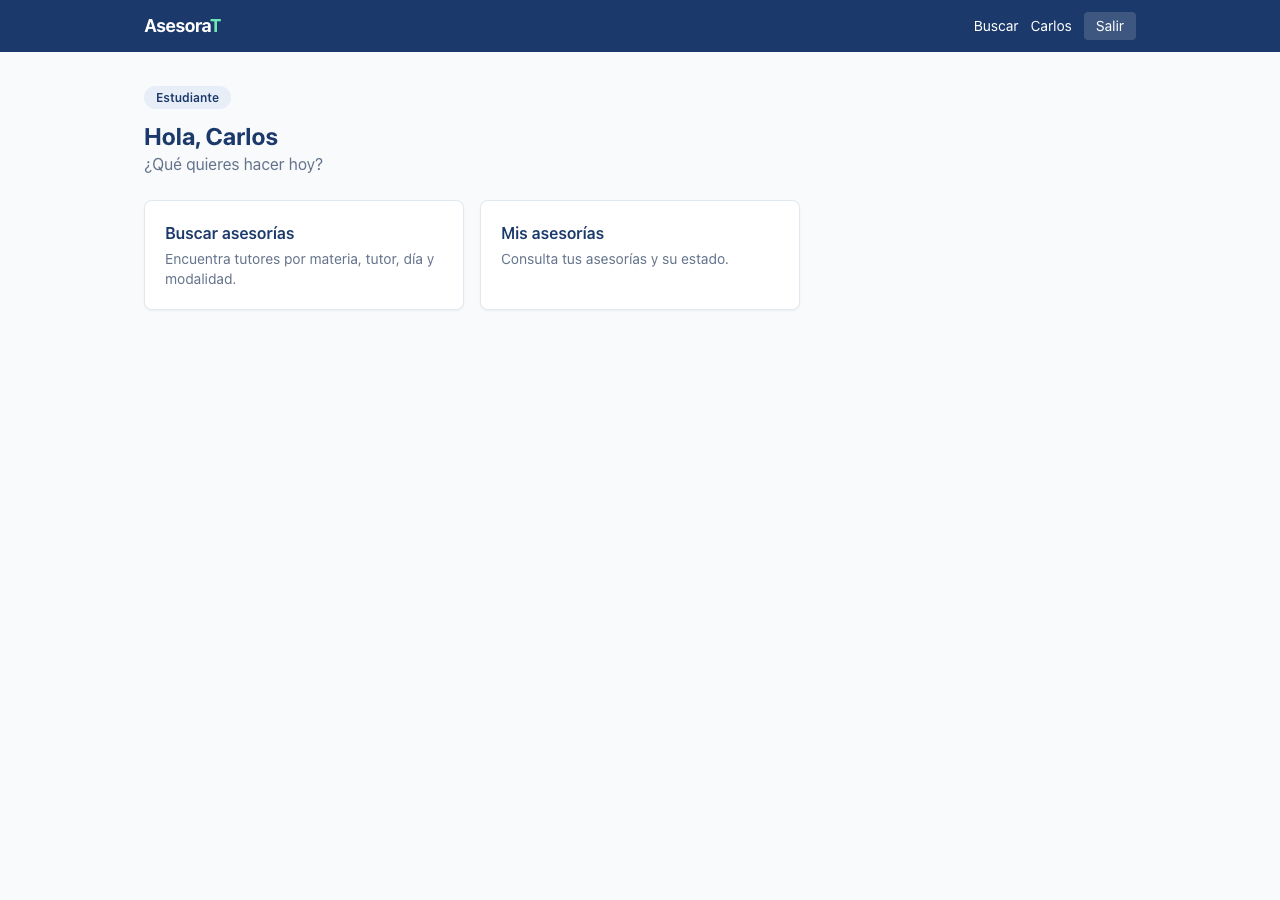
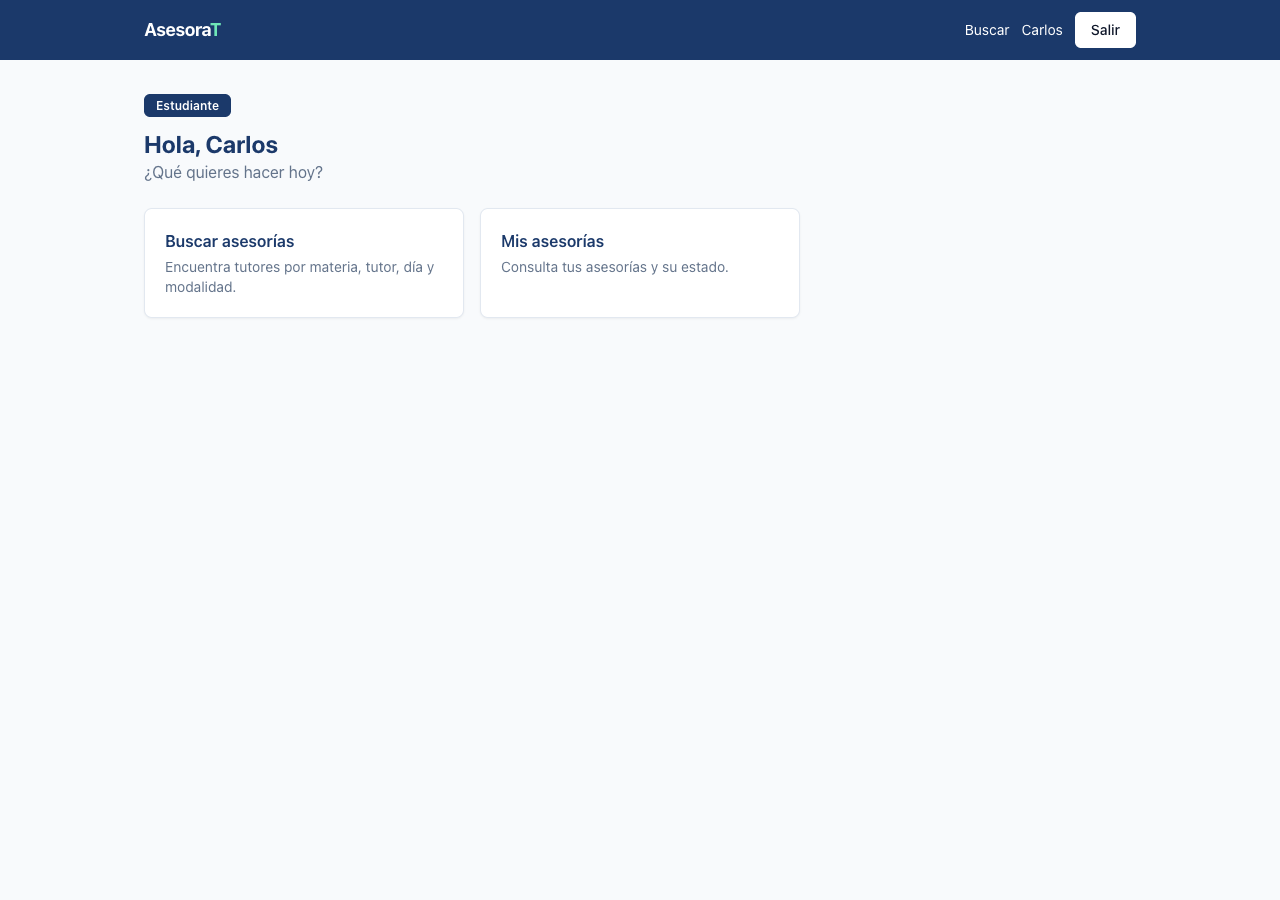
docs: pruebas P-22 a P-24, seguimiento y capturas con el detalle y el resultado (CC-005)

Changed region(s): [[0.0, 0.0, 1.0, 0.2178], [0.125, 0.2489, 0.3438, 0.3422], [0.375, 0.2489, 0.5625, 0.3111]]

diff --git a/docs/seguimiento.md b/docs/seguimiento.md
@@ -6,10 +6,10 @@ Corte final: 26 de noviembre de 2026 (entrega de la versión 1.0.0). Responsable
 
 | Concepto | Resultado |
 |---|---|
-| Actividades terminadas | 22 de 22 (100 %) |
+| Actividades terminadas | 23 de 23 (100 %) |
 | Historias de la versión 1.0.0 | 9 de 9 terminadas (40 de 40 puntos) |
 | Requerimientos funcionales de la versión 1.0.0 | 9 de 9 implementados (RF-01 a RF-07, RF-09 y RF-11) |
-| Casos de prueba aprobados | 37 de 37 (16 automatizados y 21 de punta a punta) |
+| Casos de prueba aprobados | 40 de 40 (16 automatizados y 24 de punta a punta) |
 | Defectos encontrados en la etapa final | 2, corregidos el mismo día |
 | Actividades pendientes | Ninguna de la versión 1.0.0. Las mejoras de la versión 1.1 se listan al final. |
 
@@ -33,19 +33,20 @@ Corte final: 26 de noviembre de 2026 (entrega de la versión 1.0.0). Responsable
 | A14 | HU-05 Agendar sin empalmes | 16 a 20 nov | 25 nov | Terminada | 100 % | La restricción única también contaba las asesorías canceladas y el horario nunca se liberaba. | Índice único parcial que ignora las canceladas (CC-004). |
 | A15 | HU-06 Confirmar o rechazar | 16 a 20 nov | 25 nov | Terminada | 100 % | Confirmar o rechazar no cambiaba el estado (defecto D-01). | Corregido el mismo día (commit `fb7e225`). |
 | A16 | HU-07 Cancelar | 23 a 27 nov | 25 nov | Terminada | 100 % | Ninguno | - |
-| A17 | HU-09 Historial | 23 a 27 nov | 25 nov | Terminada | 100 % | Ninguna historia marcaba las asesorías como completadas y el reporte no tenía datos. | El tutor marca como completada una asesoría confirmada que ya ocurrió. |
+| A17 | HU-09 Historial | 23 a 27 nov | 25 nov | Terminada | 100 % | Ninguna historia marcaba las asesorías como completadas y el reporte no tenía datos. | El tutor registra el resultado (Aprobada o No aprobada) de una asesoría confirmada que ya ocurrió y queda como completada (CC-005). |
 | A18 | HU-11 Reporte de horas | 23 a 27 nov | 25 nov | Terminada | 100 % | Ninguno | - |
 | A19 | Pruebas y correcciones | 30 nov a 2 dic | 25 nov | Terminada | 100 % | 2 defectos (D-01 y D-02). | Corregidos y verificados con una nueva ejecución de todas las pruebas. |
 | A20 | Despliegue en Vercel y Neon | 2 a 3 dic | 26 nov | Terminada | 100 % | - | - |
 | A21 | Manual de usuario y evidencias | 3 a 4 dic | 25 a 26 nov | Terminada | 100 % | - | - |
 | A22 | Presentación y entrega de la versión 1.0.0 | 4 dic | 26 nov | Terminada | 100 % | La consigna fija la entrega el 26 nov, antes del 4 dic planeado. | Sprint 6 reducido a 2 días (CC-004). |
+| A23 | Detalle de la asesoría, resultado y colores sólidos (CC-005) | No planeada | 25 nov | Terminada | 100 % | En la revisión de la interfaz se pidió ver el detalle de cada asesoría y su resultado, y botones más claros. | CC-005; 3 pruebas nuevas (P-22 a P-24). |
 
 ## Indicadores
 
 | Métrica | Meta | Resultado final | Lectura |
 |---|---|---|---|
 | M1 Requerimientos funcionales implementados (versión 1.0.0) | 100 % | 9 de 9 (100 %) | Cumple |
-| M2 Casos de prueba aprobados | ≥ 90 % | 37 de 37 (100 %) después de las correcciones | Cumple |
+| M2 Casos de prueba aprobados | ≥ 90 % | 40 de 40 (100 %) después de las correcciones | Cumple |
 | M3 Defectos críticos abiertos al entregar | 0 | 0 | Cumple |
 | M8 Historias completadas por sprint | ≥ 80 % | Sprints 3 a 5: 7 de 7 historias (100 %) | Cumple |
 | M9 Desviación del cronograma | ≤ 10 % | Los Sprints 3 y 4 no avanzaron en sus fechas; la versión 1.0.0 se entregó el 26 nov, 8 días antes de la línea base del 4 dic | Se controló con CC-004 |
@@ -73,6 +74,7 @@ Corte final: 26 de noviembre de 2026 (entrega de la versión 1.0.0). Responsable
 | CC-002 | 6 nov | PostgreSQL local en desarrollo y Neon en despliegue. | 0.2.0 |
 | CC-003 | 6 nov | Sprints de 1 semana; HU-08 y HU-10 a la versión 1.1. | 0.2.1 |
 | CC-004 | 25 nov | Cronograma ajustado a la entrega del 26 nov; las canceladas ya no ocupan el horario. | 1.0.0 |
+| CC-005 | 25 nov | Detalle de cada asesoría, resultado Aprobada o No aprobada y colores sólidos en la interfaz. | 1.0.0 |
 
 Detalle completo en [bitacora-cambios.md](bitacora-cambios.md).
 
@@ -83,7 +85,7 @@ Detalle completo en [bitacora-cambios.md](bitacora-cambios.md).
 | 0.1.0 | 11 oct 2026 | Estructura del proyecto, modelo de datos, pantallas iniciales y documentación. |
 | 0.2.0 | 6 nov 2026 | Base de datos, registro e inicio de sesión, panel por rol, materias del tutor y búsqueda desde la BD. |
 | 0.2.1 | 6 nov 2026 | Cronograma reprogramado (CC-003). |
-| 1.0.0 | 26 nov 2026 | Disponibilidad, agendar, confirmar, cancelar, historial y reporte de horas. Versión final del semestre. |
+| 1.0.0 | 26 nov 2026 | Disponibilidad, agendar, confirmar, cancelar, historial con detalle y resultado, y reporte de horas. Versión final del semestre. |
 
 Detalle en [CHANGELOG.md](../CHANGELOG.md). Cada versión tiene su etiqueta en GitHub (`v0.1.0`, `v0.2.0`, `v0.2.1` y `v1.0.0`).
 
@@ -91,7 +93,7 @@ Detalle en [CHANGELOG.md](../CHANGELOG.md). Cada versión tiene su etiqueta en G
 
 - **Repositorio:** https://github.com/BrisaAguayo/AsesoraT
 - **Commits:** historial con *Conventional Commits* (`feat:`, `fix:`, `docs:`, `chore:`), uno por cambio.
-- **Ramas:** una rama por historia (`feature/HU-03-disponibilidad` a `feature/HU-11-reporte`), una por defecto (`fix/HU-06-confirmar-solicitud`, `fix/HU-03-horas-en-celular`), una para el despliegue (`chore/despliegue-vercel`) y una de documentación (`docs/entrega-final`), integradas a `main` con un merge por rama (commits "Merge: ...").
+- **Ramas:** una rama por historia (`feature/HU-03-disponibilidad` a `feature/HU-11-reporte`), una por defecto (`fix/HU-06-confirmar-solicitud`, `fix/HU-03-horas-en-celular`), una para el despliegue (`chore/despliegue-vercel`), dos de la revisión de la interfaz (`feature/estilos-solidos`, `feature/HU-09-detalle-resultado`) y una de documentación (`docs/entrega-final`), integradas a `main` con un merge por rama (commits "Merge: ...").
 - **Tablero Kanban:** GitHub Projects con las columnas Por hacer, En progreso, En revisión y Terminado.
 - **Etiquetas de versión:** `v0.1.0`, `v0.2.0`, `v0.2.1` y `v1.0.0`.
 

diff --git a/docs/bitacora-pruebas.md b/docs/bitacora-pruebas.md
@@ -7,7 +7,7 @@
 ## Cómo se probó
 
 1. **Pruebas automatizadas** de las reglas de negocio con `npm test` (16 casos, CP-01 a CP-16).
-2. **Pruebas de punta a punta** en el navegador con las cuentas de ejemplo de los 3 roles (21 casos, P-01 a P-21). Cada prueba sigue los pasos que haría un usuario y revisa lo que aparece en pantalla y en la base de datos.
+2. **Pruebas de punta a punta** en el navegador con las cuentas de ejemplo de los 3 roles (24 casos, P-01 a P-24). Cada prueba sigue los pasos que haría un usuario y revisa lo que aparece en pantalla y en la base de datos.
 3. **Revisión de código** antes de integrar cada rama: `npm run build`, `npm run typecheck` y `npm run lint` sin errores.
 4. Si una prueba falla, se registra el defecto, se corrige en una rama `fix/` y se vuelven a correr **todas** las pruebas.
 
@@ -31,11 +31,14 @@
 | P-14 | El estudiante ve el nuevo estado (HU-06, HU-09) | 25 nov 2026 | Brisa Aguayo | En Mis asesorías aparecen Próximas e Historial con los estados Confirmada, Cancelada y Completada. | Se muestran ambas secciones con los 4 estados. | Ninguno | Alta | No aplica | No aplica |
 | P-15 | Cancelar asesoría (HU-07) | 25 nov 2026 | Brisa Aguayo | Al cancelar, queda registrada como cancelada y el horario vuelve a estar disponible. | Mensaje "Asesoría cancelada. El horario quedó libre." y la fecha vuelve a ofrecerse al agendar. | Ninguno | Alta | No aplica | No aplica |
 | P-16 | Cancelar solo hasta 2 horas antes (HU-07, RF-07) | 25 nov 2026 | Brisa Aguayo | Las asesorías pasadas o a menos de 2 horas no muestran "Cancelar". | El historial no muestra el botón; la regla también pasa la prueba automatizada CP-12. | Ninguno | Alta | No aplica | No aplica |
-| P-17 | Marcar como completada (HU-09) | 25 nov 2026 | Brisa Aguayo | El tutor marca como completada una asesoría confirmada que ya ocurrió. | Mensaje "Asesoría marcada como completada." | Ninguno | Media | No aplica | No aplica |
+| P-17 | Registrar el resultado (HU-09, CC-005) | 25 nov 2026 | Brisa Aguayo | Desde el detalle, el tutor registra Aprobada o No aprobada de una asesoría confirmada que ya ocurrió y queda como completada. | Mensaje "Resultado registrado. La asesoría quedó como completada." con el estado Completada y el resultado ✓ Aprobada. | Ninguno | Media | No aplica | No aplica |
 | P-18 | Reporte de horas por periodo (HU-11) | 25 nov 2026 | Brisa Aguayo | Del 1 al 30 nov se ven las asesorías completadas y horas por tutor con el total; en octubre no hay datos. | Andrea López 3 y 3 h, Diego Ramírez 1 y 1 h, Mariana Soto 1 y 1 h, total 5 y 5 h. Octubre: "No hay asesorías completadas en este periodo." | Ninguno | Alta | No aplica | No aplica |
 | P-19 | Exportar a CSV (HU-11) | 25 nov 2026 | Brisa Aguayo | Se descarga un archivo CSV con el periodo, una fila por tutor y el total. | Archivo `reporte-horas-2026-11-01-a-2026-11-30.csv` con los mismos datos de la pantalla. | Ninguno | Media | No aplica | No aplica |
 | P-20 | Acceso por rol y privacidad (RNF-04, RNF-07) | 25 nov 2026 | Brisa Aguayo | El estudiante no entra a solicitudes ni al reporte; el tutor no entra al reporte ni descarga el CSV; ningún usuario ve números de control de otros. | Todas las rutas protegidas mandan al inicio de sesión; ningún número de control aparece en las páginas revisadas. | Ninguno | Alta | No aplica | No aplica |
 | P-21 | Diseño en celular (RNF-03) | 25 nov 2026 | Brisa Aguayo | A 360 px las pantallas de los 3 roles no tienen desplazamiento horizontal. | Panel, búsqueda, agendar, mis asesorías, disponibilidad, solicitudes y reporte miden 360 px o menos. | Ninguno | Media | No aplica | No aplica |
+| P-22 | Detalle y resultado para el estudiante (HU-09, CC-005) | 25 nov 2026 | Brisa Aguayo | Al abrir una asesoría completada, el estudiante ve todos sus datos y el resultado, sin los botones del tutor. | El detalle muestra tutor, fecha, horario, lugar, tema y "✗ No aprobada". | Ninguno | Media | No aplica | No aplica |
+| P-23 | Detalle de una asesoría ajena (RNF-04, RNF-07) | 25 nov 2026 | Brisa Aguayo | Un usuario que no es el estudiante ni el tutor de la asesoría no puede ver su detalle. | Respuesta 404 sin datos de la asesoría. | Ninguno | Alta | No aplica | No aplica |
+| P-24 | Botones del mismo tamaño (CC-005) | 25 nov 2026 | Brisa Aguayo | Los botones que comparten un área miden lo mismo: Confirmar y Rechazar, Editar y Borrar, Aprobada y No aprobada, Consultar y Exportar CSV. | Cada par mide lo mismo (por ejemplo 124 y 124 px en Solicitudes). | Ninguno | Baja | No aplica | No aplica |
 
 ## Pruebas automatizadas (`npm test`)
 
@@ -57,9 +60,9 @@ Resultado: **16 de 16 aprobadas**.
 
 | Concepto | Resultado |
 |---|---|
-| Pruebas ejecutadas | 37 (16 automatizadas y 21 de punta a punta) |
-| Aprobadas en la primera ejecución | 35 de 37 |
+| Pruebas ejecutadas | 40 (16 automatizadas y 24 de punta a punta) |
+| Aprobadas en la primera ejecución | 35 de 37; las 3 pruebas de CC-005 pasaron a la primera |
 | Defectos encontrados | 2 (D-01 prioridad alta, D-02 prioridad baja) |
 | Defectos corregidos y verificados | 2 de 2, el mismo día |
-| Aprobadas en la ejecución final | **37 de 37 (100 %)** |
+| Aprobadas en la ejecución final | **40 de 40 (100 %)** |
 | Defectos abiertos al entregar | 0 |

diff --git a/docs/bitacora-individual.md b/docs/bitacora-individual.md
@@ -28,10 +28,11 @@
 | 25 nov 2026 | HU-11 reporte de horas y exportación a CSV | Brisa Aguayo | Commit `8e843e4`; pruebas CP-15 y CP-16 | 1.5 h | HU-11 terminada |
 | 25 nov 2026 | Datos de ejemplo para la demostración | Brisa Aguayo | Commit `3660e9e` | 0.5 h | 8 asesorías en todos los estados |
 | 25 nov 2026 | Pruebas de punta a punta de los 3 roles en escritorio y celular | Brisa Aguayo | `docs/bitacora-pruebas.md`; capturas en `docs/capturas/v1.0.0/` | 2 h | 37 pruebas, 2 defectos encontrados |
-| 25 nov 2026 | Corrección de los defectos D-01 y D-02 y nueva ejecución de las pruebas | Brisa Aguayo | Commits `fb7e225`, `638c03c` | 1 h | 37 de 37 aprobadas |
+| 25 nov 2026 | Corrección de los defectos D-01 y D-02 y nueva ejecución de las pruebas | Brisa Aguayo | Commits `fb7e225`, `638c03c` | 1 h | 37 de 37 aprobadas; 40 de 40 después de CC-005 |
+| 25 nov 2026 | Revisión de la interfaz: detalle de la asesoría, resultado aprobada o no aprobada, colores sólidos y botones uniformes (CC-005) | Brisa Aguayo | Guía de estilos; ramas `feature/estilos-solidos` y `feature/HU-09-detalle-resultado`; pruebas P-22 a P-24 | 3 h | Interfaz aprobada |
 | 25 a 26 nov 2026 | Seguimiento, bitácoras, CC-004, cronograma y manual de usuario | Brisa Aguayo | `docs/seguimiento.md`, `docs/bitacora-cambios.md`, `docs/backlog.md`, `docs/manual-de-usuario.md` | 3 h | Evidencias 1 a 5 |
 | 26 nov 2026 | Despliegue en Vercel, versión 1.0.0, carpeta de entrega y presentación | Brisa Aguayo | Etiqueta `v1.0.0`; carpeta `PROYECTO_FINAL_AsesoraT` | 2 h | Sistema entregado |
 
-**Tiempo total registrado:** 68.5 h.
+**Tiempo total registrado:** 71.5 h.
 
 El historial completo de commits está en https://github.com/BrisaAguayo/AsesoraT/commits/main.

diff --git a/README.md b/README.md
@@ -10,7 +10,7 @@ Aplicación web para consultar y agendar asesorías académicas entre estudiante
 
 ## Estado actual
 
-**Versión 1.0.0 (26 nov 2026). Entrega final del proyecto.** Todas las historias de la versión 1.0.0 están terminadas y probadas (37 de 37 pruebas aprobadas).
+**Versión 1.0.0 (26 nov 2026). Entrega final del proyecto.** Todas las historias de la versión 1.0.0 están terminadas y probadas (40 de 40 pruebas aprobadas).
 
 | Módulo | Estado |
 |---|---|
@@ -22,7 +22,7 @@ Aplicación web para consultar y agendar asesorías académicas entre estudiante
 | Agendar en 3 pasos sin empalmes (HU-05) | ✅ Listo |
 | Confirmar o rechazar solicitudes (HU-06) | ✅ Listo |
 | Cancelar hasta 2 horas antes (HU-07) | ✅ Listo |
-| Historial de asesorías (HU-09) | ✅ Listo |
+| Historial de asesorías con detalle y resultado aprobada o no aprobada (HU-09) | ✅ Listo |
 | Reporte de horas para coordinación con exportación a CSV (HU-11) | ✅ Listo |
 | Avisos por correo (HU-08) y calificación (HU-10) | Mejoras futuras (versión 1.1) |
 
